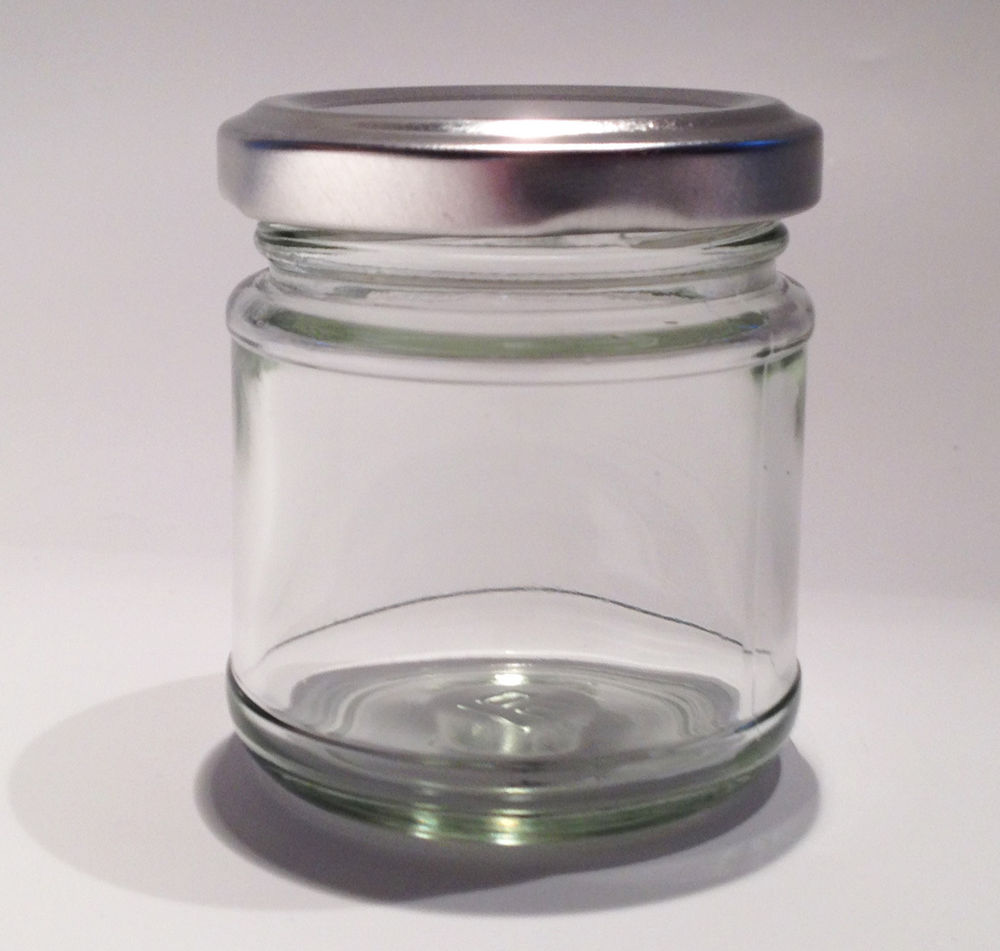
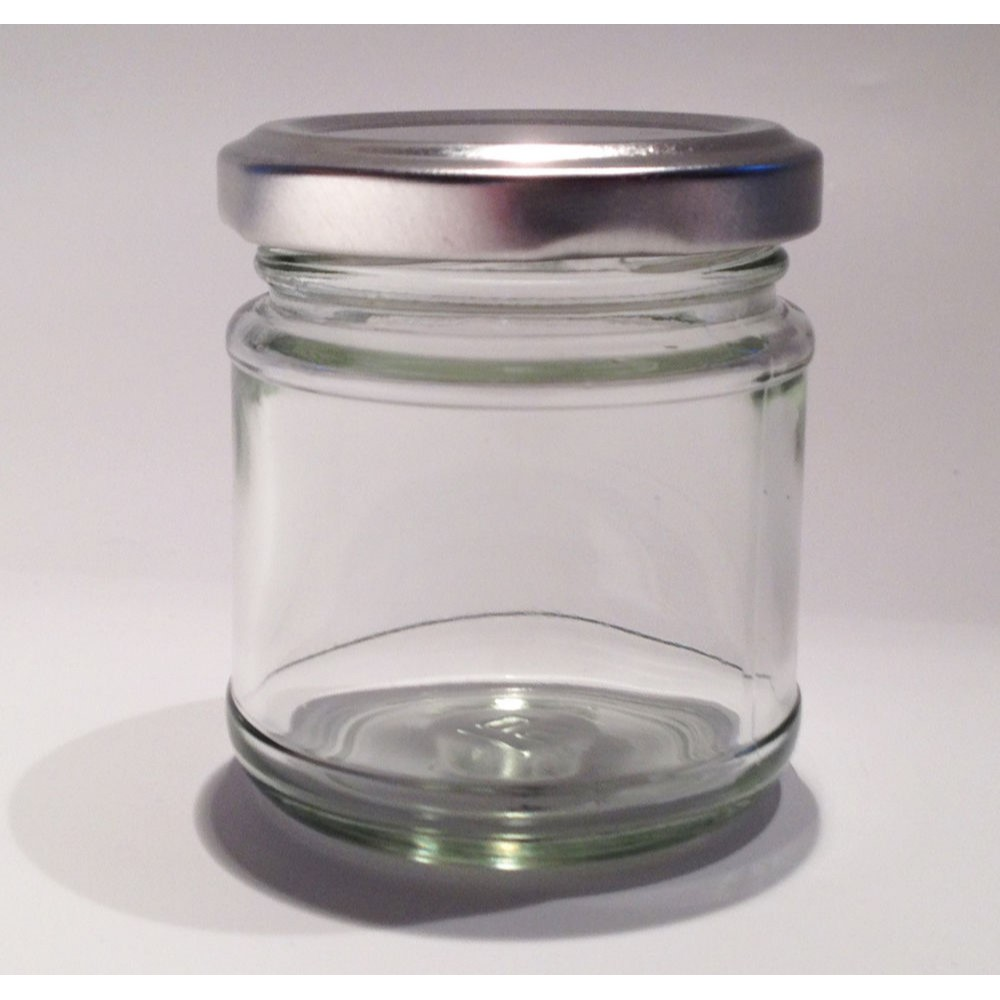
Added the products page
index.php:
Changed the front-page image, added a home button because people might
not press the image to go home. Just in case :smile: WOAH THERE ARE
EMOJIS
shop.php:
Added the shop/products page. Added products to the page and the names
of the products as well as the images. Formatted it to look nice like in
the wireframe. I did change the colours up a bit though, adding more
blue than grey.
signup.php:
Added a home button
CSS:
Changed font-size of h5 and h6, deleted footers, made the front page
image and stuff use flex instead of positioning, made less padding
inside the whitebox and formatted the products
Images:
Cropped them to make them squares for better formatting on the product
page
Overall very productive

diff --git a/css/styles.css b/css/styles.css
@@ -11,17 +11,17 @@ h1 {
 	text-align: center;
 }
 
+h5 {
+	font-size: 1rem;
+}
+
+h6 {
+	font-size: 0.8rem;
+}
+
 /* Firefox automatically sets a box shadow to red if you put in incorrect input and doesn't take away the box shadow even after a reload. This makes it so that the function is overridden and doesn't show the box shadow. */
 input:invalid {
 	box-shadow: none !important;
-}
-
-footer {
-	background-color: #002D62;
-	height: 6rem;
-	position: absolute;
-	bottom: 0;
-	width: 100%;
 }
 
 #nav-buttons {
@@ -70,7 +70,6 @@ footer {
 	padding: 1rem;
 	padding-bottom: 2.5rem;
 	height: 30rem;
-	align-items: center;
 }
 
 #white-box {
@@ -79,7 +78,9 @@ footer {
 	background-color: white;
 	width: 98%;
 	border: 3rem solid #e5e5e8;
-	padding: 5rem;
+	padding: 1rem;
+	align-items: center;
+	flex-flow: column;
 }
 
 #white-box-signup {
@@ -88,6 +89,7 @@ footer {
 	background-color: white;
 	width: 98%;
 	border: 3rem solid #e5e5e8;
+	padding: 1rem;
 }
 
 #white-box-holder {
@@ -98,8 +100,8 @@ footer {
 
 #image-header {
 	color: #002D62;
-	position: absolute;
-	bottom: 16rem;
+	bottom: 19rem;
+	padding: 2rem;
 }
 
 #shop-now-button {
@@ -112,18 +114,25 @@ footer {
 	align-items: center;
 	text-decoration: none;
 	color: #002D62;
-	position: absolute;
-	bottom: 11.5rem;
+	bottom: 14.5rem;
 }
 
 #front-page-image {
-	position: relative;
 	bottom: 4rem;
 	right: 1rem;
+	max-width: 20rem;
 }
 
 #blue-box-holder {
 	display: flex;
+	justify-content: center;
+}
+
+#products {
+	display: flex;
+	flex-wrap: wrap;
+	align-items: flex-start;
+	flex-direction: row;
 	justify-content: center;
 }
 
@@ -157,20 +166,37 @@ footer {
 	text-align: center;
 }
 
-.formelement
-{
+.formelement {
 	width: 100%;
-	margin: 5px auto;
-	height: 40px;
+	margin: 0.313rem auto;
+	height: 2.5rem;
 	display: flex;
 	justify-content: center;
 }
 
-.textfield
-{
+.textfield {
 	width: 20rem;
 	height: 2.25rem;
 	padding-left: 0.5rem;
 	font-size: 1rem;
 	border: transparent;
+}
+
+.product-card {
+	margin: 0.625rem;
+	border: 0.063rem solid #28749b;
+	border-radius: 0.313rem;
+	box-shadow: 0.188rem 0.188rem 0.5rem rgba(0,0,0,0.3);
+}
+
+.product-card img {
+	border-radius: 0.313rem 0.313rem 0 0;
+	max-width: 14rem;
+}
+
+.product-details {
+	border-radius: 0 0 0.313rem 0.313rem;
+	color: white;
+	background-color: #28749b;
+	padding: 0.4rem;
 }

diff --git a/shop.php b/shop.php
@@ -1,0 +1,94 @@
+<!DOCTYPE html>
+<html>
+<head>
+	<meta charset="UTF-8" />
+	<title>Shop</title>
+	<link rel="stylesheet" type="text/css" href="css/styles.css" />
+	<link rel="icon" href="images/favicon.png" />
+</head>
+<body>
+	<header>
+		<div id="nav-bar-container">
+			<div id="nav-bar">
+				<a href="index.php"><img src="images/logo.png"  id="logo-image"/></a>
+				<ul id="nav-buttons">
+					<li class="nav-button"><strong><a href="index.php">HOME</a></strong></li>
+					<li class="nav-button"><strong><a href="shop.php">SHOP</a></strong></li>
+					<li class="nav-button"><strong><a href="signup.php">SIGN UP</a></strong></li>
+					<li class="nav-button"><strong><a href="login.php">LOG IN</a></strong></li>
+				</ul>
+				<div>
+					<strong><a href="cart.php" id="cart-button"><img src="images/cart.png" id="cart-image"/> CART</a></strong>
+				</div>
+			</div>
+		</div>
+	</header>
+	<div id="white-box-holder">
+		<div id="white-box">
+			<main id="products">
+				<div class="product-card">
+					<img src="images/bottle-s.jpg" alt="A small-sized bottle filled with water" />
+					<div class="product-details">
+						<h5>Small Bottle of Water</h5>
+						<h6>Price: $2.49</h6>
+					</div>
+				</div>
+				<div class="product-card">
+					<img src="images/bottle-m.jpg" alt="A medium-sized bottle filled with water" />
+					<div class="product-details">
+						<h5>Medium Bottle of Water</h5>
+					</div>
+				</div>
+				<div class="product-card">
+					<img src="images/bottle-l.jpg" alt="A large-sized bottle filled with water" />
+					<div class="product-details">
+						<h5>Large Bottle of Water</h5>
+					</div>
+				</div>
+				<div class="product-card">
+					<img src="images/packet-s.jpg" alt="A small-sized packet filled with water" />
+					<div class="product-details">
+						<h5>Small Packet of Water</h5>
+					</div>
+				</div>
+				<div class="product-card">
+					<img src="images/packet-m.jpg" alt="A medium-sized packet filled with water" />
+					<div class="product-details">
+						<h5>Medium Packet of Water</h5>
+					</div>
+				</div>
+				<div class="product-card">
+					<img src="images/jar-s.jpg" alt="A small-sized jar filled with water" />
+					<div class="product-details">
+						<h5>Small Jar of Water</h5>
+					</div>
+				</div>
+				<div class="product-card">
+					<img src="images/jar-m.jpg" alt="A medium-sized jar filled with water" />
+					<div class="product-details">
+						<h5>Medium Jar of Water</h5>
+					</div>
+				</div>
+				<div class="product-card">
+					<img src="images/jar-l.jpg" alt="A large-sized jar filled with water" />
+					<div class="product-details">
+						<h5>Large Jar of Water</h5>
+					</div>
+				</div>
+				<div class="product-card">
+					<img src="images/flask-s.jpg" alt="A small-sized flask filled with water" />
+					<div class="product-details">
+						<h5>Small Flask of Water</h5>
+					</div>
+				</div>
+				<div class="product-card">
+					<img src="images/flask-m.jpg" alt="A medium-sized flask filled with water" />
+					<div class="product-details">
+						<h5>Medium Jar of Water</h5>
+					</div>
+				</div>
+			</main>
+		</div>
+	</div>
+</body>
+</html>

diff --git a/index.php b/index.php
@@ -12,9 +12,10 @@
 			<div id="nav-bar">
 				<a href="index.php"><img src="images/logo.png"  id="logo-image"/></a>
 				<ul id="nav-buttons">
-					<li class="nav-button"><strong><a href="shop.php">SHOP</a></li></strong>
-					<li class="nav-button"><strong><a href="signup.php">SIGN UP</a></li></strong>
-					<li class="nav-button"><strong><a href="login.php">LOG IN</a></li></strong>
+					<li class="nav-button"><strong><a href="index.php">HOME</a></strong></li>
+					<li class="nav-button"><strong><a href="shop.php">SHOP</a></strong></li>
+					<li class="nav-button"><strong><a href="signup.php">SIGN UP</a></strong></li>
+					<li class="nav-button"><strong><a href="login.php">LOG IN</a></strong></li>
 				</ul>
 				<div>
 					<strong><a href="cart.php" id="cart-button"><img src="images/cart.png" id="cart-image"/> CART</a></strong>
@@ -24,13 +25,10 @@
 	</header>
 	<div id="white-box-holder">
 		<div id="white-box">
-			<img id="front-page-image" src="images/packet-s.jpg" />
-			<h1 id="image-header">SMALL PACKET OF WATER</h1>
-			<a href="shop.php" id="shop-now-button"><strong>SHOP NOW &rarr;</strong></a>
+			<img id="front-page-image" class="front-page-item" src="images/bottle-l.jpg" alt="Bottled water (large)" />
+			<h1 id="image-header" class="front-page-item">LARGE BOTTLE OF WATER</h1>
+			<a href="shop.php" id="shop-now-button" class="front-page-item"><strong>SHOP NOW &rarr;</strong></a>
 		</div>
 	</div>
-	<footer>
-		<h1>THIS IS THE FOOTER</h1>
-	</footer>
 </body>
 </html>

diff --git a/signup.php b/signup.php
@@ -11,9 +11,10 @@
 			<div id="nav-bar">
 				<a href="index.php"><img src="images/logo.png"  id="logo-image"/></a>
 				<ul id="nav-buttons">
-					<li class="nav-button"><strong><a href="shop.php">SHOP</a></li></strong>
-					<li class="nav-button" id="active"><strong><a href="signup.php">SIGN UP</a></li></strong>
-					<li class="nav-button"><strong><a href="login.php">LOG IN</a></li></strong>
+					<li class="nav-button"><strong><a href="index.php">HOME</a></strong></li>
+					<li class="nav-button"><strong><a href="shop.php">SHOP</a></strong></li>
+					<li class="nav-button"><strong><a href="signup.php">SIGN UP</a></strong></li>
+					<li class="nav-button"><strong><a href="login.php">LOG IN</a></strong></li>
 				</ul>
 				<div>
 					<strong><a href="cart.php" id="cart-button"><img src="images/cart.png" id="cart-image"/> CART</a></strong>
